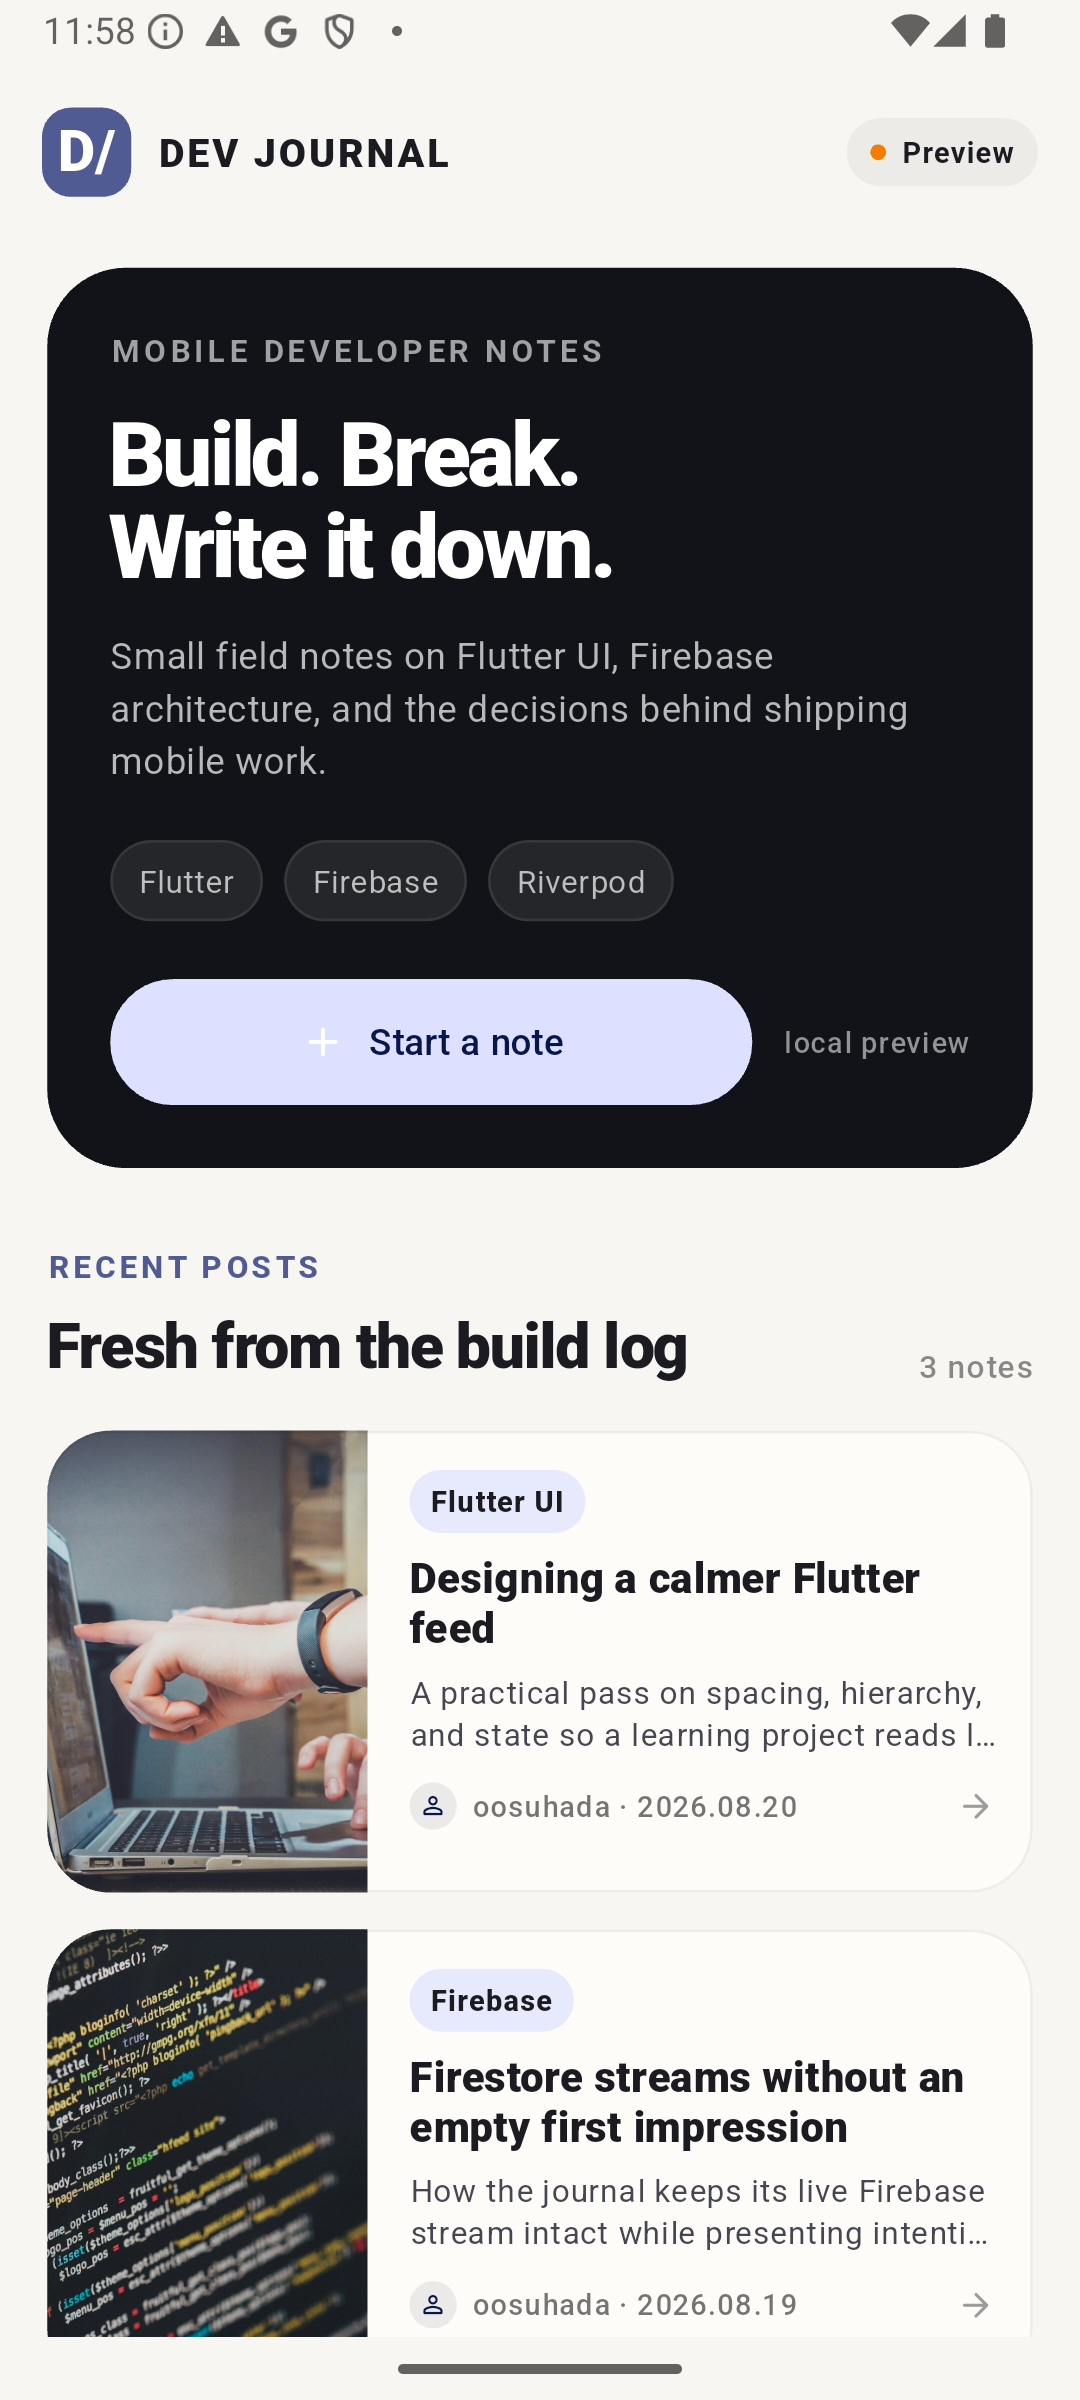
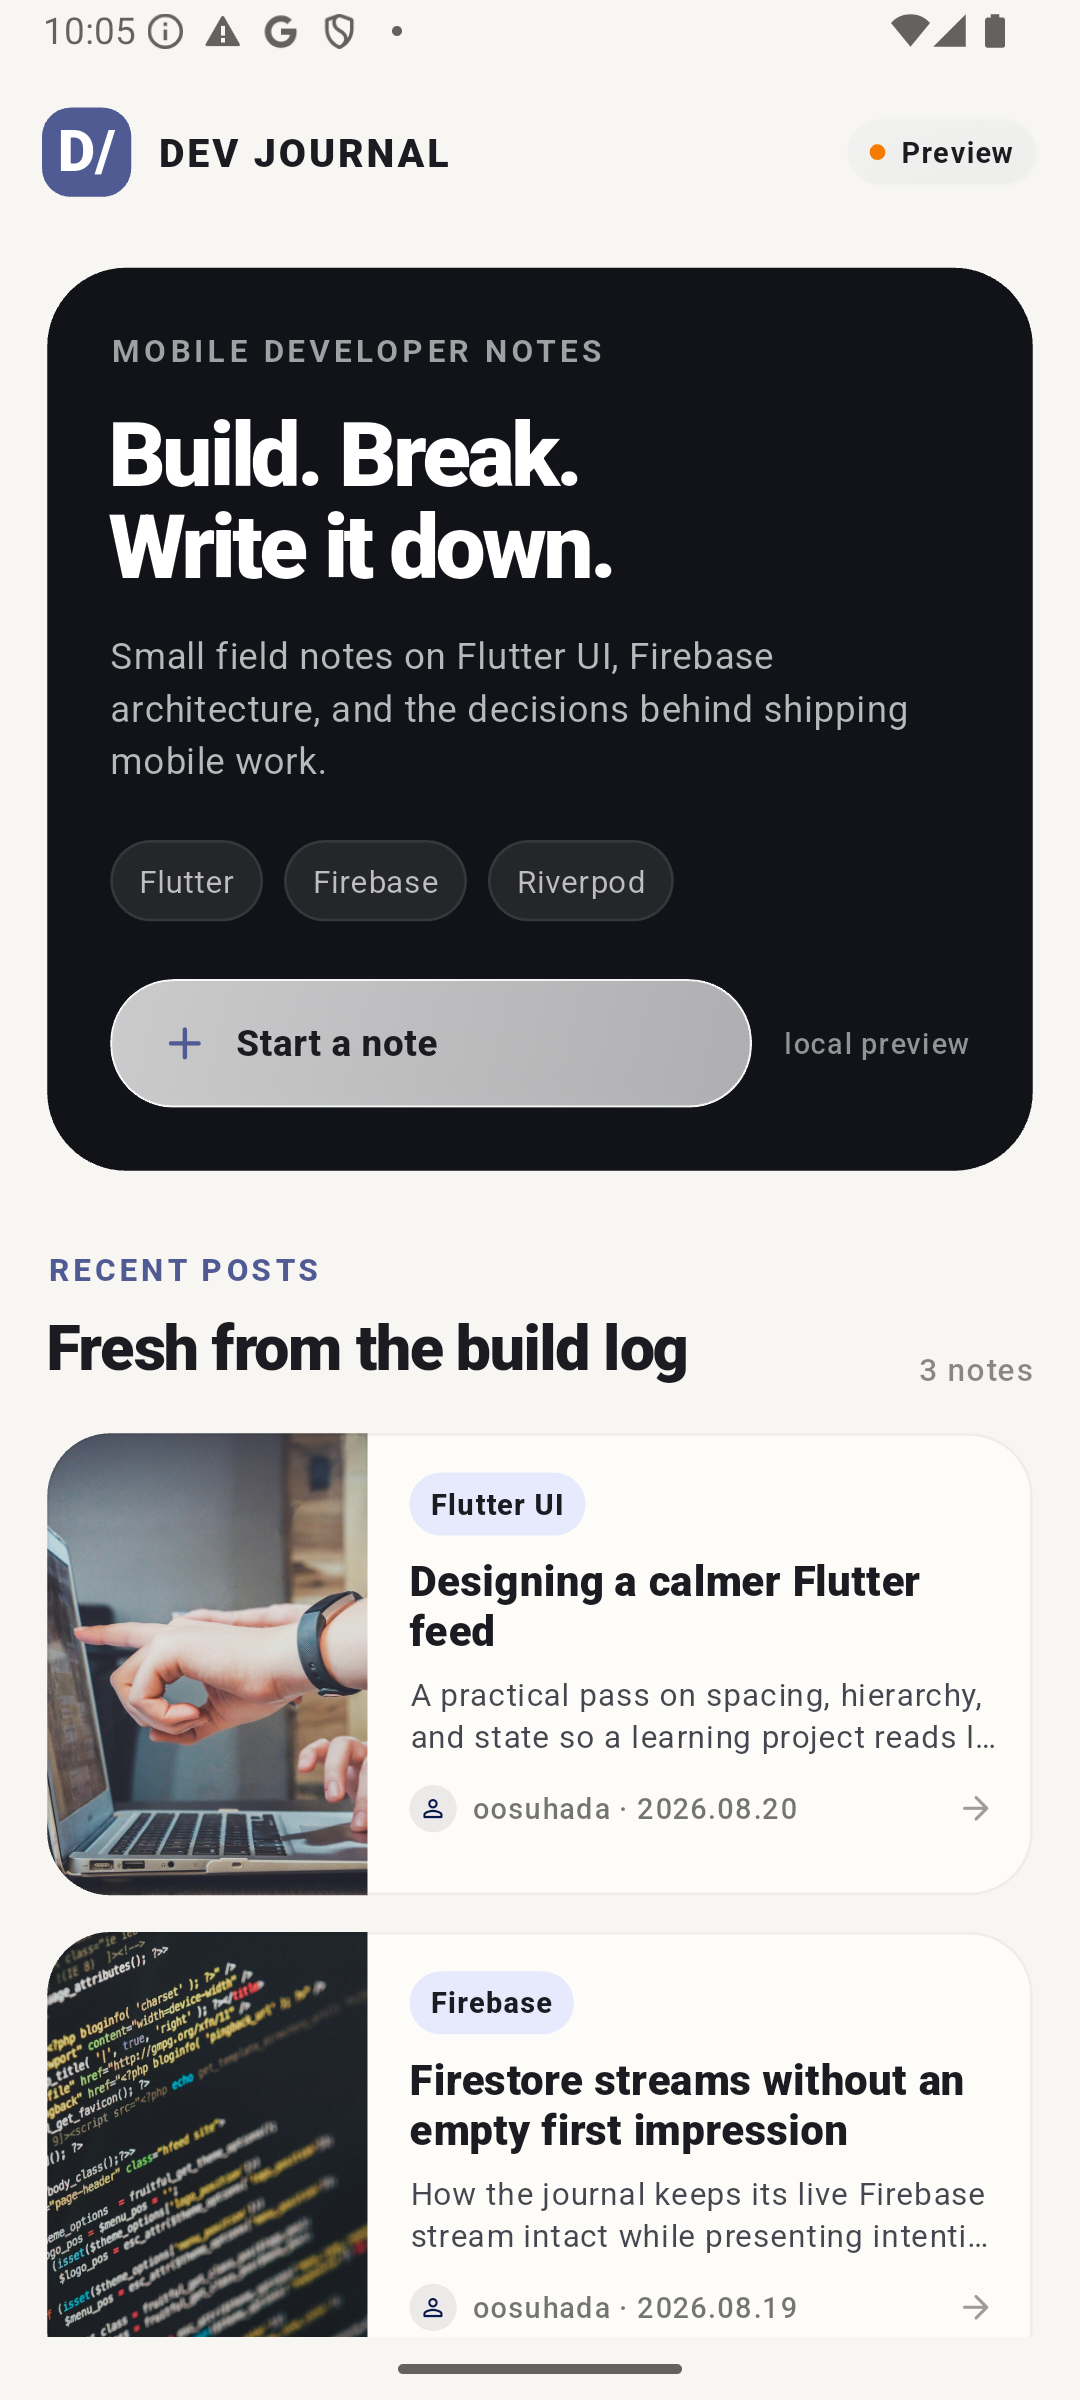
Finalize Dev Journal v2 portfolio QA

diff --git a/lib/ui/pages/home/home_page.dart b/lib/ui/pages/home/home_page.dart
@@ -20,9 +20,14 @@ class HomePage extends ConsumerWidget {
           Padding(
             padding: const EdgeInsets.only(right: 16),
             child: Center(
-                child: AppGlassAction(
-                    onTap: () {},
-                    child: _DataModeBadge(isSample: state.isSample))),
+              child: AppGlassSurface(
+                semanticLabel:
+                    state.isSample ? 'Preview data mode' : 'Live data mode',
+                borderRadius: BorderRadius.circular(999),
+                blurSigma: 14,
+                child: _DataModeBadge(isSample: state.isSample),
+              ),
+            ),
           ),
         ],
       ),
@@ -131,7 +136,6 @@ class _HeroIntro extends StatelessWidget {
 
   @override
   Widget build(BuildContext context) {
-    final scheme = Theme.of(context).colorScheme;
     return Container(
       padding: const EdgeInsets.all(24),
       decoration: BoxDecoration(
@@ -182,17 +186,11 @@ class _HeroIntro extends StatelessWidget {
           Row(
             children: [
               Expanded(
-                child: AppGlassAction(
-                  onTap: onWrite,
-                  child: Row(
-                    mainAxisAlignment: MainAxisAlignment.center,
-                    children: [
-                      Icon(Icons.add_rounded, size: 19, color: scheme.primary),
-                      const SizedBox(width: 8),
-                      const Text('Start a note',
-                          style: TextStyle(fontWeight: FontWeight.w800)),
-                    ],
-                  ),
+                child: AppGlassActionButton(
+                  icon: Icons.add_rounded,
+                  onPressed: onWrite,
+                  label: 'Start a note',
+                  semanticLabel: 'Start a new developer note',
                 ),
               ),
               if (isSample) ...[

diff --git a/README.md b/README.md
@@ -4,6 +4,19 @@ An Android-first mobile developer journal built with Flutter, Riverpod, Firestor
 
 Flutter, Riverpod, Firestore, Firebase Storage로 만든 Android 중심의 모바일 개발 저널입니다. 실제 Firebase CRUD 흐름은 유지하면서도, 포트폴리오에서 바로 제품 형태를 확인할 수 있는 작은 개발 블로그 경험으로 정리했습니다.
 
+## v1 → v2 / 성장 과정
+
+| | v1 · learning phase | v2 · renewal |
+| --- | --- | --- |
+| Focus | Feature implementation and Firebase CRUD | Adaptive UI and clearer interaction hierarchy |
+| Controls | Default Material controls | Liquid Glass-inspired toolbar and action controls |
+| Accessibility | Basic framework defaults | Semantic labels, readable contrast, minimum tap targets |
+| Motion | Default navigation transitions | Platform-aware transitions with reduced-motion support |
+| Rendering | Styling applied at content level | Translucency limited to compact controls to protect rendering cost |
+| Platform | General Flutter behavior | Android-first layout with platform-aware visual conventions |
+
+v1에서는 Flutter와 Firebase 기능을 실제로 연결하고 CRUD를 완성하는 데 집중했습니다. v2에서는 기존 데이터 구조와 앱 정체성을 유지한 채 adaptive UI, interaction hierarchy, accessibility, motion, rendering cost, platform convention을 함께 검토했습니다. 본문과 이미지 같은 콘텐츠 영역은 선명하게 유지하고, 투명 효과는 toolbar와 CTA 같은 제어 영역에만 제한했습니다.
+
 ## Preview / 미리보기
 
 <p align="center">
